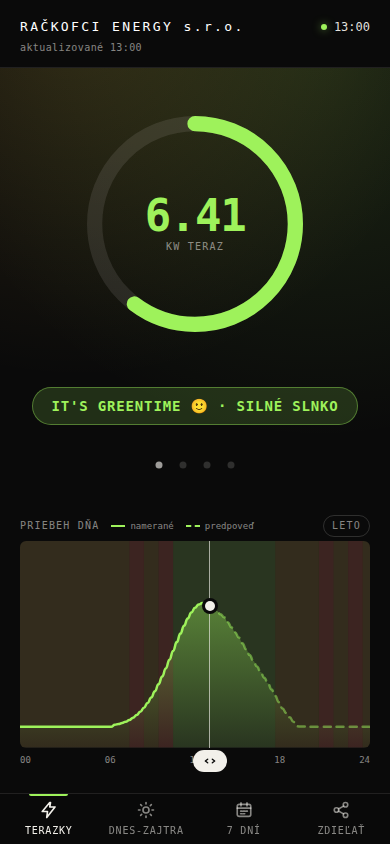
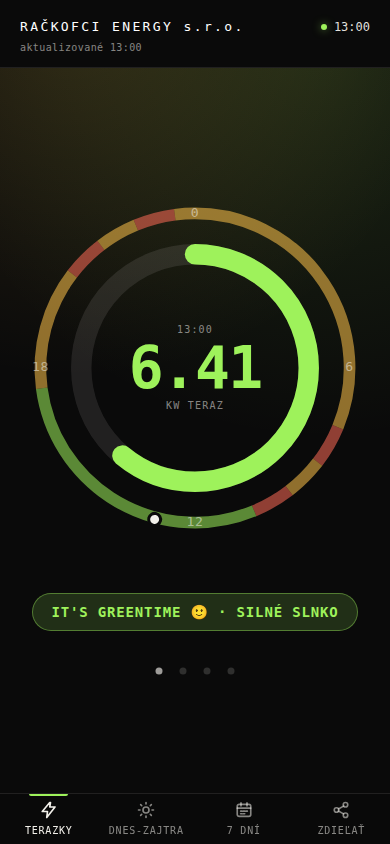
fix: prázdny oblúk bez bodky a náhľad času aj z klávesnice
Tri veci na ciferníku po presťahovaní pása dňa.

Pri nulovej výrobe nechával guľatý koniec oblúka na vrchu prstenca farebnú
bodku, hoci nebolo čo ukázať. Na ten čas sa koniec zrovná. Bolo to tak aj
predtým, len na menšom ciferníku to menej bilo do očí.

Jazdec ostáva v stránke stále. V pokoji je značkou "teraz" - vyzerá rovnako
ako doteraz samostatná bodka - ale ostáva tlačidlom, takže sa naň dá prejsť
tabulátorom a šípkami rovno otvoriť náhľad. Esc sa vráti do živého stavu,
Enter ho otvorí na aktuálnom čase. Doteraz sa šípkami dal posúvať len už
otvorený náhľad a otvoriť sa dal jedine ťuknutím.

V pokoji má jazdec pointer-events: none. Nie je to kozmetika: bez toho by
z neho bola 44 px veľká diera, cez ktorú sa nedá listovať kartami, a ťuknutie
na značku by nenastavilo čas. Takto ťuknutie prepadne na ciferník pod ňou.

Klik z klávesnice sa rozoznáva podľa detail === 0. Bez toho sa náhľad znovu
otvoril hneď po tom, ako ho dotiahnutie jazdca na "teraz" zrušilo - ťahanie
totiž na konci pošle aj klik.

Navyše: dasharray prstenca nastavuje render spolu s dashoffsetom, aby sa
podiel počítal z toho istého čísla, akým je prstenec rozdelený (v CSS ostáva
len ako východiskový stav). Rámček zaostrenia obopína kresbu jazdca namiesto
jeho neviditeľného dotykového štvorca - predvolený rámček prehliadača z neho
robil terč trikrát väčší, než v skutočnosti je.

Obrázok karty Terazky v README prekreslený cez npm run screenshots.
[…]

diff --git a/test/e2e/app.spec.js b/test/e2e/app.spec.js
@@ -203,13 +203,13 @@ test('náhľad iného času ťuknutím na prstenec a návrat na teraz', async ({
     if (!box) throw new Error('ciferník nemá rozmer');
     const six = ringXY(box, 6 * 60);
     await page.mouse.click(six.x, six.y);
-    await expect(page.locator('#dial-grip')).toBeVisible();
+    await expect(page.locator('#dial-grip')).not.toHaveClass(/at-now/);
     // Presná minúta závisí od zaokrúhlenia pixelov, preto rozsah okolo 06:00.
     await expect(page.locator('#dial-when')).toHaveText(/^0[56]:\d{2}$/);
     await expect(page.locator('#pv-power-unit')).toContainText('kW (');
     await expect(page.locator('#preview-reset')).toBeVisible();
     await page.locator('#preview-reset').click();
-    await expect(page.locator('#dial-grip')).toBeHidden();
+    await expect(page.locator('#dial-grip')).toHaveClass(/at-now/);
     await expect(page.locator('#preview-reset')).toBeHidden();
     await expect(page.locator('#pv-power-unit')).toHaveText('kW teraz');
     await expect(page.locator('#dial-when')).toHaveText(APP_NOW.hm);
@@ -246,25 +246,57 @@ test('ťahanie jazdca: denný prstenec sa nemení, dotiahnutie na "teraz" náhľ
     const now = ringXY(box, APP_NOW.minutes);
     await page.mouse.move(now.x, now.y);
     await page.mouse.up();
-    await expect(page.locator('#dial-grip')).toBeHidden();
+    await expect(page.locator('#dial-grip')).toHaveClass(/at-now/);
     await expect(page.locator('#pv-power-unit')).toHaveText('kW teraz');
     expect(errors).toEqual([]);
 });
 
-test('jazdec sa dá ovládať šípkami - náhľad času nie je len pre myš', async ({ page }) => {
+test('náhľad času sa dá celý ovládať z klávesnice, nielen prstom', async ({ page }) => {
+    await openApp(page);
+    const grip = page.locator('#dial-grip');
+
+    // V pokoji je jazdec značkou "teraz" - ale ostáva tlačidlom, takže sa naň dá prejsť
+    // tabulátorom. Bez toho by sa k náhľadu času z klávesnice nedalo dostať vôbec.
+    await expect(grip).toBeVisible();
+    await expect(grip).toHaveClass(/at-now/);
+    await expect(grip).toHaveAttribute('aria-valuetext', `Teraz ${APP_NOW.hm}`);
+    await grip.focus();
+    await expect(grip).toBeFocused();
+
+    // Šípka náhľad rovno otvorí, od aktuálneho času.
+    await page.keyboard.press('ArrowRight');
+    await expect.poll(async () => Number(await grip.getAttribute('aria-valuenow'))).toBe(APP_NOW.minutes + PREVIEW.keyStepMin);
+    await expect(grip).not.toHaveClass(/at-now/);
+    await expect(page.locator('#pv-power-unit')).toContainText('kW (');
+    await page.keyboard.press('ArrowLeft');
+    await expect.poll(async () => Number(await grip.getAttribute('aria-valuenow'))).toBe(APP_NOW.minutes);
+    // Popis pre čítačku obrazovky musí sedieť s tým, čo je v ciferníku napísané.
+    await expect(grip).toHaveAttribute('aria-valuetext', `Náhľad ${await page.locator('#dial-when').textContent()}`);
+
+    // Esc sa vráti do živého stavu, Enter náhľad zase otvorí.
+    await page.keyboard.press('Escape');
+    await expect(page.locator('#pv-power-unit')).toHaveText('kW teraz');
+    await expect(grip).toHaveClass(/at-now/);
+    await page.keyboard.press('Enter');
+    await expect(page.locator('#pv-power-unit')).toContainText('kW (');
+});
+
+test('pri nulovej výrobe neostane na prstenci bodka', async ({ page }) => {
     await openApp(page);
     const box = await page.locator('#dial-wrap').boundingBox();
     if (!box) throw new Error('ciferník nemá rozmer');
-    await page.mouse.click(ringXY(box, 6 * 60).x, ringXY(box, 6 * 60).y);
-    const grip = page.locator('#dial-grip');
-    await grip.focus();
-    const before = await grip.getAttribute('aria-valuenow');
-    await page.keyboard.press('ArrowRight');
-    await expect.poll(async () => Number(await grip.getAttribute('aria-valuenow'))).toBe(Number(before) + PREVIEW.keyStepMin);
-    await page.keyboard.press('ArrowLeft');
-    await expect.poll(async () => await grip.getAttribute('aria-valuenow')).toBe(before);
-    // Popis pre čítačku obrazovky musí sedieť s tým, čo je v ciferníku napísané.
-    await expect(grip).toHaveAttribute('aria-valuetext', `Náhľad ${await page.locator('#dial-when').textContent()}`);
+    const ring = page.locator('#dial-ring');
+
+    // Cez deň oblúk niečo ukazuje a guľatý koniec je v poriadku.
+    await expect(ring).not.toHaveClass(/empty/);
+
+    // V noci panely nedávajú nič. Guľatý koniec by aj z nulového oblúka nakreslil bodku,
+    // preto sa na ten čas zrovná - inak by prstenec tvrdil, že sa niečo vyrába.
+    const noc = ringXY(box, 2 * 60);
+    await page.mouse.click(noc.x, noc.y);
+    await expect(page.locator('#pv-power')).toHaveText('0.00');
+    await expect(ring).toHaveClass(/empty/);
+    await expect(ring).toHaveCSS('stroke-linecap', 'butt');
 });
 
 test('predpoveď: štatistiky, prepnutie na zajtra, správa dňa', async ({ page }) => {
@@ -1044,19 +1076,19 @@ test.describe('listovanie kariet prstom', () => {
         // narazí na kraj poradia.
         await swipe(page, '#dial-wrap', { dx: 120 });
         await ocakavajKartu(page, 'terazky');
-        await expect(page.locator('#dial-grip')).toBeHidden();
+        await expect(page.locator('#dial-grip')).toHaveClass(/at-now/);
 
         await swipe(page, '#dial-wrap', { dx: -120 });
         await ocakavajKartu(page, 'predpoved');
         await page.locator('#nav-terazky').click();
-        await expect(page.locator('#dial-grip')).toBeHidden();
+        await expect(page.locator('#dial-grip')).toHaveClass(/at-now/);
 
         // Obyčajné ťuknutie na prstenec náhľad nastaví.
         const box = await page.locator('#dial-wrap').boundingBox();
         if (!box) throw new Error('ciferník nemá rozmer');
         const six = ringXY(box, 6 * 60);
         await page.locator('#dial-wrap').click({ position: { x: six.x - box.x, y: six.y - box.y } });
-        await expect(page.locator('#dial-grip')).toBeVisible();
+        await expect(page.locator('#dial-grip')).not.toHaveClass(/at-now/);
         expect(errors).toEqual([]);
     });
 

diff --git a/web/render/terazky.js b/web/render/terazky.js
@@ -82,8 +82,12 @@ function renderHero(state, m, dom) {
     dom.pvPower.textContent = m.powerText;
     dom.pvPower.style.color = Number.isFinite(m.power) ? tierVar(m.accent) : 'var(--ink)';
     dom.pvPowerUnit.textContent = m.unitText;
+    dom.dialRing.style.strokeDasharray = String(DIAL_CIRCUMFERENCE);
     dom.dialRing.style.strokeDashoffset = String(DIAL_CIRCUMFERENCE * (1 - m.dial.fraction));
     dom.dialRing.style.stroke = tierVar(m.dial.tier);
+    // Pri nulovej výrobe by guľatý koniec oblúka nechal na vrchu prstenca bodku, hoci
+    // nie je čo ukázať. Trieda ho na ten čas zrovná (viď .dial-ring.empty v style.css).
+    dom.dialRing.classList.toggle('empty', !(m.dial.fraction > 0));
     renderEyebrowBadge(m, dom);
     dom.verdictHeadline.textContent = m.message.headline;
     dom.verdictBody.textContent = m.message.body;
@@ -110,19 +114,21 @@ function renderDayRing(state, dom) {
     writeHtml(dom.dayRing, dayRingSvg(dayRingModel(state.season)), 'day-ring');
 }
 
-/** Jazdec a značka "teraz" na dennom prstenci. Jazdec je vidno len počas náhľadu; značka
- * "teraz" stále, aby bolo aj v pokoji vidieť, kde v dni sa appka nachádza.
+/** Jazdec na dennom prstenci. Je v stránke stále, aj keď náhľad nebeží - v pokoji je
+ * značkou "teraz" a zároveň jedinou cestou, ako sa k náhľadu dostať z klávesnice. Počas
+ * náhľadu sa mení na objímku a značku "teraz" preberie samostatná bodka.
  * @param {import('../state.js').AppState} state @param {ReturnType<typeof heroModel>} hero @param {import('../dom.js').Dom} dom */
 function renderRingMarks(state, hero, dom) {
     const nowMinutes = minutesOfDay(state.now);
     placeOnRing(dom.dialNow, nowMinutes);
-    dom.dialGrip.classList.toggle('hidden', !hero.preview);
-    if (!hero.preview) return;
+    dom.dialNow.classList.toggle('hidden', !hero.preview);
+
     placeOnRing(dom.dialGrip, hero.minutes);
+    dom.dialGrip.classList.toggle('at-now', !hero.preview);
     // Otočenie o uhol času: dlhá os objímky tak leží po obvode prstenca.
     dom.dialGrip.style.transform = `translate(-50%, -50%) rotate(${(hero.minutes / MINUTES_PER_DAY) * 360}deg)`;
     dom.dialGrip.setAttribute('aria-valuenow', String(hero.minutes));
-    dom.dialGrip.setAttribute('aria-valuetext', `Náhľad ${minutesToTimeStr(hero.minutes)}`);
+    dom.dialGrip.setAttribute('aria-valuetext', `${hero.preview ? 'Náhľad' : 'Teraz'} ${minutesToTimeStr(hero.minutes)}`);
 }
 
 /** @param {import('../state.js').AppState} state @param {ReturnType<typeof heroModel>} hero @param {import('../dom.js').Dom} dom */

diff --git a/style.css b/style.css
@@ -455,13 +455,20 @@ b {
     stroke: var(--ink-20);
     stroke-width: 14;
     stroke-linecap: round;
-    /* 490 = obvod kružnice s polomerom 78 (RING.rPower). Presnú hodnotu dopočíta JS,
-       toto je len východiskový stav pred prvým prekreslením. */
+    /* 490 ≈ obvod kružnice s polomerom 78 (RING.rPower). Je to len východiskový stav pred
+       prvým prekreslením - presnú hodnotu nastaví render do oboch vlastností naraz, aby sa
+       podiel počítal z toho istého čísla, akým je prstenec rozdelený. */
     stroke-dasharray: 490;
     stroke-dashoffset: 490;
     transition:
         stroke-dashoffset 0.6s ease,
         stroke var(--dur);
+}
+/* Guľatý koniec oblúka nakreslí bodku aj vtedy, keď je oblúk nulový - pri nulovej výrobe
+   tak na vrchu prstenca ostávala farebná bodka, hoci nebolo čo ukázať. Zrovnaný koniec
+   nenakreslí nič. Prepína to render podľa podielu výkonu (viď renderHero). */
+.dial-ring.empty {
+    stroke-linecap: butt;
 }
 /* Pri ťahaní jazdca musí oblúk ísť za prstom hneď, nie s polsekundovým oneskorením. */
 .panel-terazky.dragging .dial-ring {
@@ -543,6 +550,35 @@ b {
 }
 .dial-grip:active {
     cursor: grabbing;
+}
+/* Rámček zaostrenia obopína kresbu, nie neviditeľný dotykový štvorec 44 × 44 px - okolo
+   neho by z jazdca spravil terč trikrát väčší, než v skutočnosti je. Predvolený rámček
+   prehliadača robil presne to. */
+.dial-grip:focus-visible {
+    outline: none;
+}
+.dial-grip:focus-visible .grip-collar {
+    outline: 2px solid var(--ink);
+    outline-offset: 2px;
+}
+/* V pokoji (žiadny náhľad) je jazdec značkou "teraz" - vyzerá ako bodka, nie ako úchytka.
+   Ostáva pritom tlačidlom, takže sa naň dá prejsť tabulátorom a šípkami rovno otvoriť
+   náhľad; bez toho by sa k náhľadu času z klávesnice nedalo dostať vôbec.
+   pointer-events: none je zámer: prstu ani myši nemá čo brať. Ťuknutie tak prepadne na
+   ciferník pod ním (ten nastaví náhľad na tú istú minútu) a ťah do strán ponad bodku
+   naďalej prepína kartu, namiesto aby ho zožrala výnimka DRAG_HANDLE. */
+.dial-grip.at-now {
+    pointer-events: none;
+}
+.dial-grip.at-now .grip-collar {
+    width: 9px;
+    height: 9px;
+    border: 0;
+    background: var(--ink);
+    gap: 0;
+}
+.dial-grip.at-now .grip-collar i {
+    display: none;
 }
 /* Objímka: korálik navlečený na prstenci. Dlhá os leží po obvode (otočenie robí JS,
    viď renderRingMarks), tri priečne ryhy sú úchop. */

diff --git a/web/interactions.js b/web/interactions.js
@@ -89,8 +89,16 @@ function initTimePreview(store, dom) {
     };
     grip.addEventListener('pointerup', end);
     grip.addEventListener('pointercancel', end);
-    // Bez šípok by sa náhľad času z klávesnice ovládať nedal - jazdec je jediná cesta k nemu.
+    // Jazdec je jediná cesta k náhľadu času, preto musí celý fungovať aj z klávesnice:
+    // šípky ho posúvajú a keď náhľad nebeží, rovno ho otvoria od aktuálneho času; Esc sa
+    // vráti do živého stavu. Otvoriť náhľad inak než ťuknutím sa dá len takto - v pokoji
+    // je jazdec značkou "teraz" bez pointer-events (viď .dial-grip.at-now v style.css),
+    // takže myš ani prst sa naň nedostanú a ťuknutie prepadne na ciferník pod ním.
     grip.addEventListener('keydown', (e) => {
+        if (e.key === 'Escape') {
+            e.preventDefault();
+            return store.setState({ previewMinutes: null, isDragging: false });
+        }
         const step =
             e.key === 'ArrowLeft' || e.key === 'ArrowDown'
                 ? -PREVIEW.keyStepMin
@@ -101,6 +109,15 @@ function initTimePreview(store, dom) {
         e.preventDefault();
         const from = store.get().previewMinutes ?? minutesOfDay(store.get().now);
         store.setState({ previewMinutes: (((from + step) % MINUTES_PER_DAY) + MINUTES_PER_DAY) % MINUTES_PER_DAY });
+    });
+    // Enter a medzerník na značke "teraz" otvoria náhľad na aktuálnom čase.
+    // detail === 0 je klik z klávesnice; myš a prst posielajú aspoň 1. Bez tej podmienky by
+    // sa náhľad znovu otvoril hneď po tom, ako ho dotiahnutie jazdca na "teraz" zrušilo -
+    // ťahanie totiž na konci pošle aj klik.
+    grip.addEventListener('click', (e) => {
+        if (e.detail === 0 && store.get().previewMinutes === null) {
+            store.setState({ previewMinutes: minutesOfDay(store.get().now) });
+        }
     });
     dom.dialWrap.addEventListener('click', (e) => {
         const target = /** @type {HTMLElement} */ (e.target);

diff --git a/index.html b/index.html
@@ -104,16 +104,16 @@
                              s ciferníkom, takže sa obe polohujú v percentách bez ohľadu na to,
                              aký veľký ciferník práve je (viď ringPercent). -->
                         <div class="dial-layer">
-                            <span class="dial-now" id="dial-now"></span>
+                            <span class="dial-now hidden" id="dial-now"></span>
                             <button
-                                class="dial-grip hidden"
+                                class="dial-grip at-now"
                                 id="dial-grip"
                                 type="button"
                                 role="slider"
                                 aria-valuemin="0"
                                 aria-valuemax="1439"
                                 aria-valuenow="0"
-                                aria-label="Čas náhľadu"
+                                aria-label="Čas na ciferníku, šípkami si pozrieš iný"
                             >
                                 <span class="grip-collar"><i></i><i></i><i></i></span>
                             </button>
